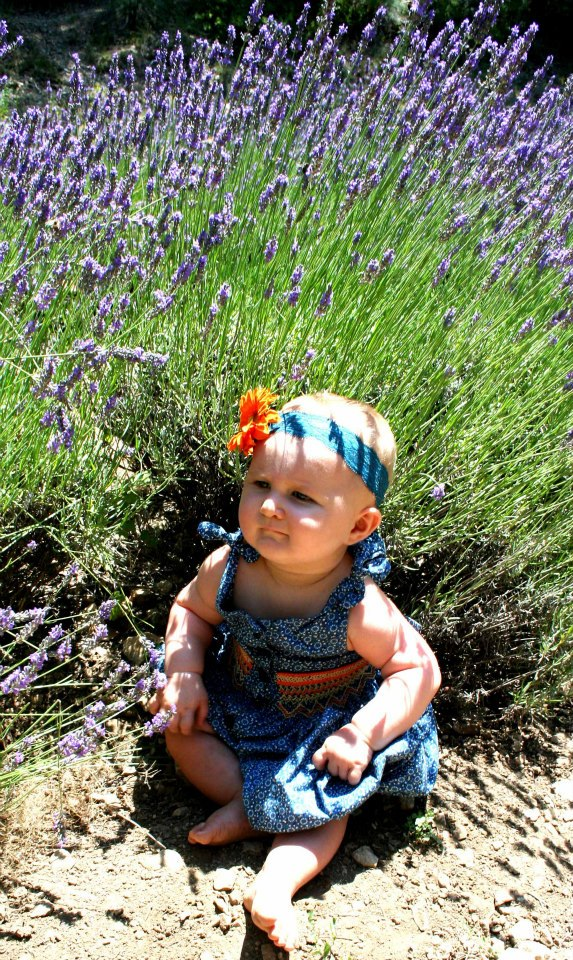
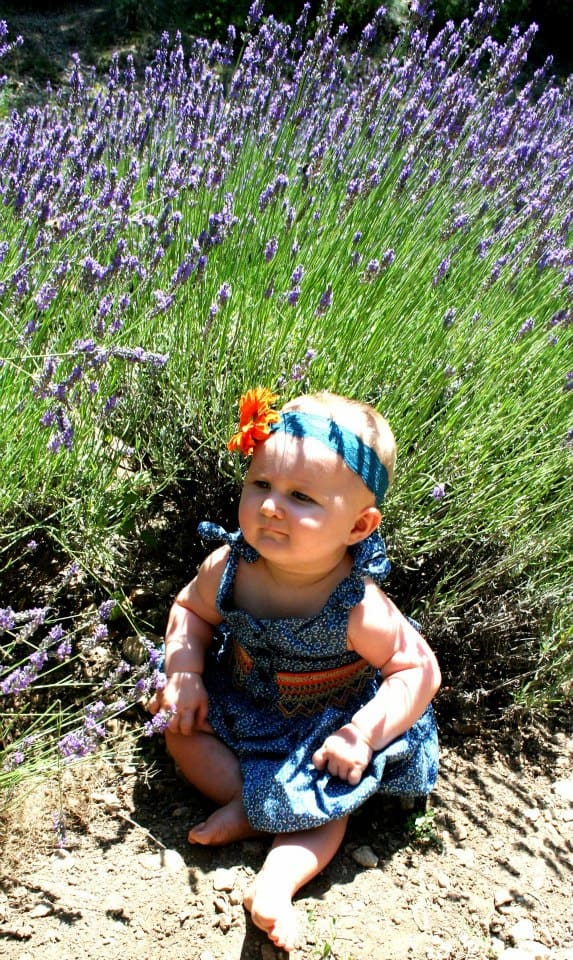
Compress lavender article images, convert hero PNG to JPG
lav-abbey.jpg     207KB -> 133KB (-36%)
lav-from-high.jpg 223KB -> 143KB (-36%)
lav-nia-abbey.jpg 263KB -> 175KB (-34%)
lav-sault.jpg     119KB ->  84KB (-29%)
lav-hero.png      737KB -> 313KB (-58%, converted to JPG)

diff --git a/src/lib/content.ts b/src/lib/content.ts
@@ -692,7 +692,7 @@ export const articles: Article[] = [
 <p>Most people associate lavender with soap, skincare, and the inside of old wardrobes. Which is fair. But shortly after we arrived in Provence, my wife and I had dinner in Isle-sur-la-Sorgue and I ordered a lavender-infused crème brûlée that I still think about. Not in a vague nostalgic way - I mean I literally ordered a second one right after I finished the first one. If they had served it in a bucket I would have asked for a spoon.</p>
 <p>I have tried to recreate it at home several times. I have not nailed it yet. When I do, the recipe goes up on the site.</p>
 <p>If you happen to have a reliable version, I would genuinely love to hear it. Drop it in the comments below.</p>`,
-    image: '/images/Lavender/lav-hero.png',
+    image: '/images/Lavender/lav-hero.jpg',
     date: '2026-05-22',
     category: 'Provence',
     marcelTip: 'Go before sunrise. Bring a baguette. Do not put the baby in the lavender if there are tourists nearby.',
